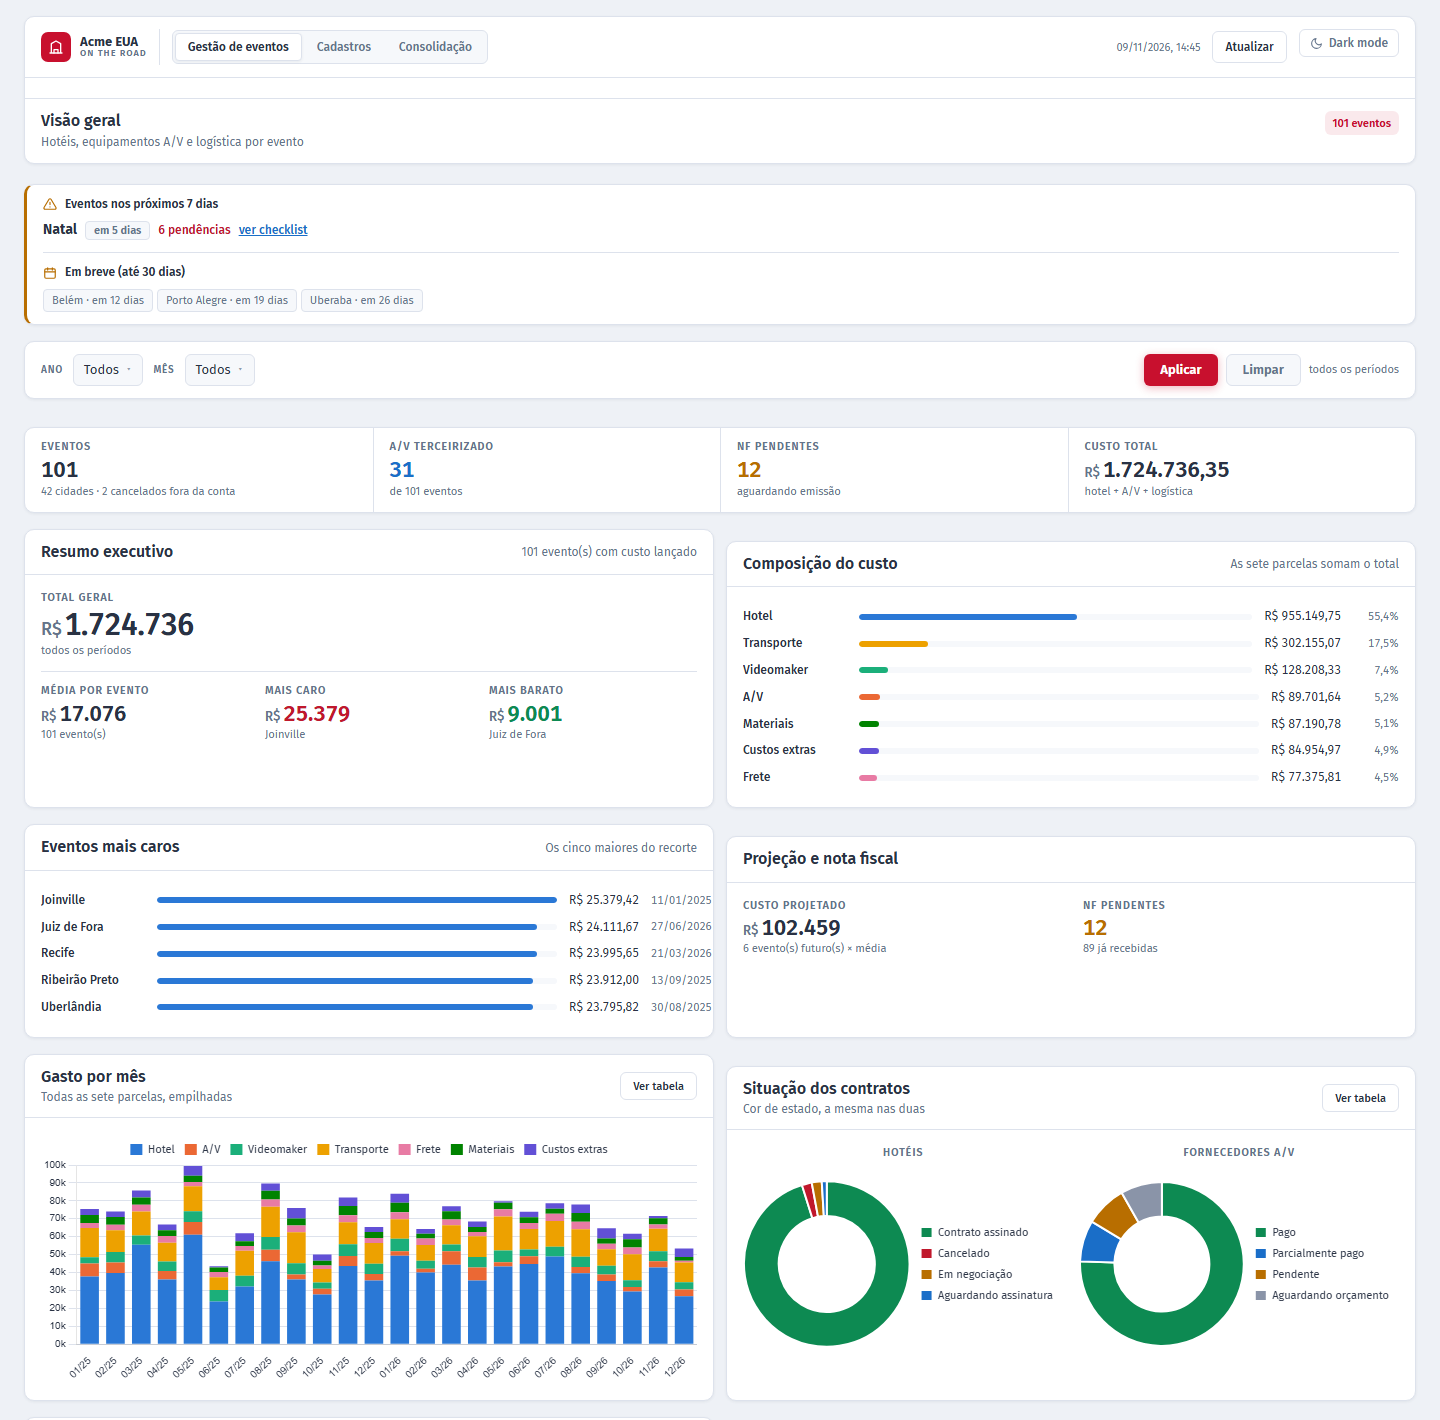
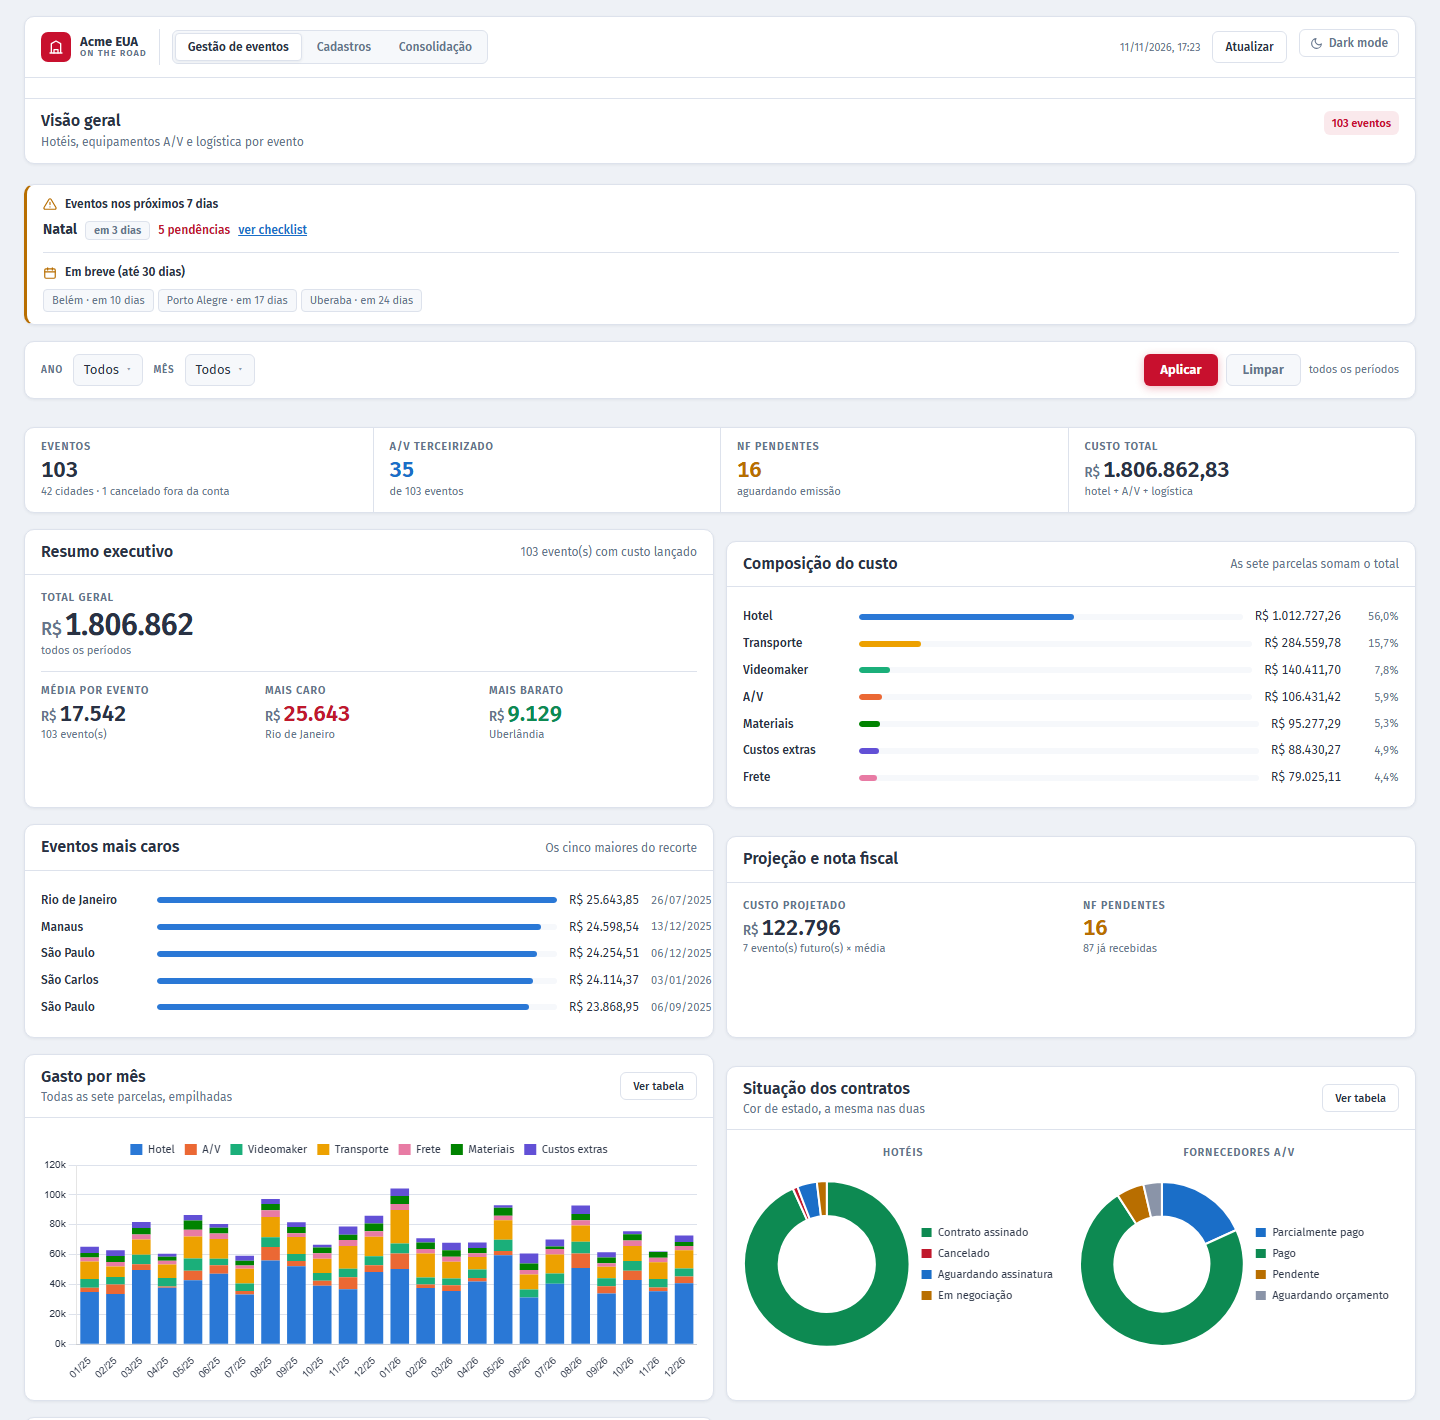
Atualiza README, prints e a mensagem de falha do gerador
README: troca de porta também no PowerShell, aviso de que o caminho sem
Docker apaga 18 tabelas (use um banco vazio), volume atualizado, ressalva
de determinismo e por que alguns cards zeram no começo do ano. A mensagem
de checagem que falhou passa a indicar o comando certo. Prints refeitos.

diff --git a/database/seed/gerar.php b/database/seed/gerar.php
@@ -46,7 +46,8 @@ if ($falhas) {
     foreach ($falhas as $falha) {
         echo "✘ $falha\n";
     }
-    echo "A base não foi gravada. Corrija o gerador ou rode `docker compose up --build` de novo.\n";
+    echo "A base não foi gravada: é um erro do gerador (veja as mensagens acima).\n";
+    echo "Para tentar de novo: docker compose down && docker compose up\n";
     exit(1);
 }
 

diff --git a/README.md b/README.md
@@ -86,8 +86,8 @@ O `docker compose up` sobe três serviços: o banco (`db`), o gerador (`seed`), 
 
 O gerador (`database/seed/`) simula clientes percorrendo a jornada comercial (campanha → lead → cadeira no evento ou consulta digital → consulta → planejamento financeiro → combo → faturas e pós-venda). Por isso os números batem entre os dashboards: a venda que aparece no Executivo é a mesma que vira fatura no Financeiro e caso no Jurídico.
 
-- Cerca de 23 mil leads, 6 mil cards no CRM e 150 mil linhas no total, de 01/01/2025 até hoje
-- Mesma data = mesma base (semente aleatória fixa)
+- Cerca de 23 mil leads, 6 mil cards no CRM e perto de 200 mil linhas no total, de 01/01/2025 até hoje (o volume cresce com o tempo)
+- Mesma data = mesma base (semente aleatória fixa); só os horários de hoje acompanham a hora em que o gerador roda
 - Volumes, taxas de conversão e nomes ficam em [`database/seed/config.php`](database/seed/config.php)
 - O modelo de dados está explicado em [`database/README.md`](database/README.md), com diagrama
 
@@ -100,7 +100,7 @@ Com o projeto no ar:
 docker compose run --rm --no-deps seed php tests/rodar.php
 
 # teste de fumaça: visita todas as telas e endpoints e exige números nas métricas principais
-APP_ENV_FILE=./docker/app.dev.env docker compose up -d
+APP_ENV_FILE=./docker/app.dev.env docker compose up -d      # no PowerShell: $env:APP_ENV_FILE='./docker/app.dev.env'; docker compose up -d
 docker compose exec app php tests/smoke.php
 ```
 
@@ -134,7 +134,9 @@ docker compose exec app php tests/smoke.php --hoje=2027-03-15 --apenas=envelheci
 
 ## Sem Docker
 
-Com PHP 8 (extensões `mysqli` e `mbstring`) e um MySQL/MariaDB local, como XAMPP ou Laragon:
+Com PHP 8 (extensões `mysqli` e `mbstring`) e um MySQL/MariaDB local, como XAMPP ou Laragon.
+
+> **Use um banco vazio, criado só para isto.** O gerador apaga e recria 18 tabelas com nomes comuns (`evento`, `invoice`, `deal`…); num banco que já tenha tabelas com esses nomes, os dados delas seriam perdidos.
 
 ```bash
 cp .env.example .env              # preencha DB_DEFAULT_* e DASH_AUTH_USER / DASH_AUTH_PASSWORD
@@ -144,12 +146,15 @@ php -S localhost:8000 index.php
 
 ## Problemas comuns
 
-- **A porta 8000 (ou 3307) já está em uso.** Escolha outras: `APP_PORTA=8080 DB_PORTA=3308 docker compose up`.
+- **A porta 8000 (ou 3307) já está em uso.** Escolha outras e abra o site na porta nova (ex.: http://localhost:8080):
+  - PowerShell (Windows): `$env:APP_PORTA=8080; $env:DB_PORTA=3308; docker compose up`
+  - Mac/Linux (bash, zsh): `APP_PORTA=8080 DB_PORTA=3308 docker compose up`
 - **"Cannot connect to the Docker daemon".** O Docker Desktop está fechado: abra-o e espere o ícone indicar que o motor está rodando.
 - **O site não subiu.** Veja o que o gerador disse: `docker compose logs seed`. Se uma checagem falhou, a mensagem diz qual.
 - **Quero recriar a base.** Rode `docker compose up` de novo: o gerador sempre recria tudo com dados até hoje.
 - **Quero ver os dados num cliente SQL.** Conecte em `localhost:3307`, banco `acme_bi`, usuário `acme`, senha `acme`.
 - **Apareceu um arquivo `.env` vazio na pasta.** É o Docker criando o ponto de montagem do `.env` de demonstração. Pode ignorar: ele está no `.gitignore`.
+- **No começo do ano, alguns cards aparecem zerados.** Os dashboards abrem no ano corrente, e nos primeiros dias de janeiro ainda há pouco movimento no ano (uma fatura só fica "inadimplente" depois de 60 dias de atraso, por exemplo). Escolha o ano anterior no filtro para ver o ano completo.
 
 ## Estrutura
 
